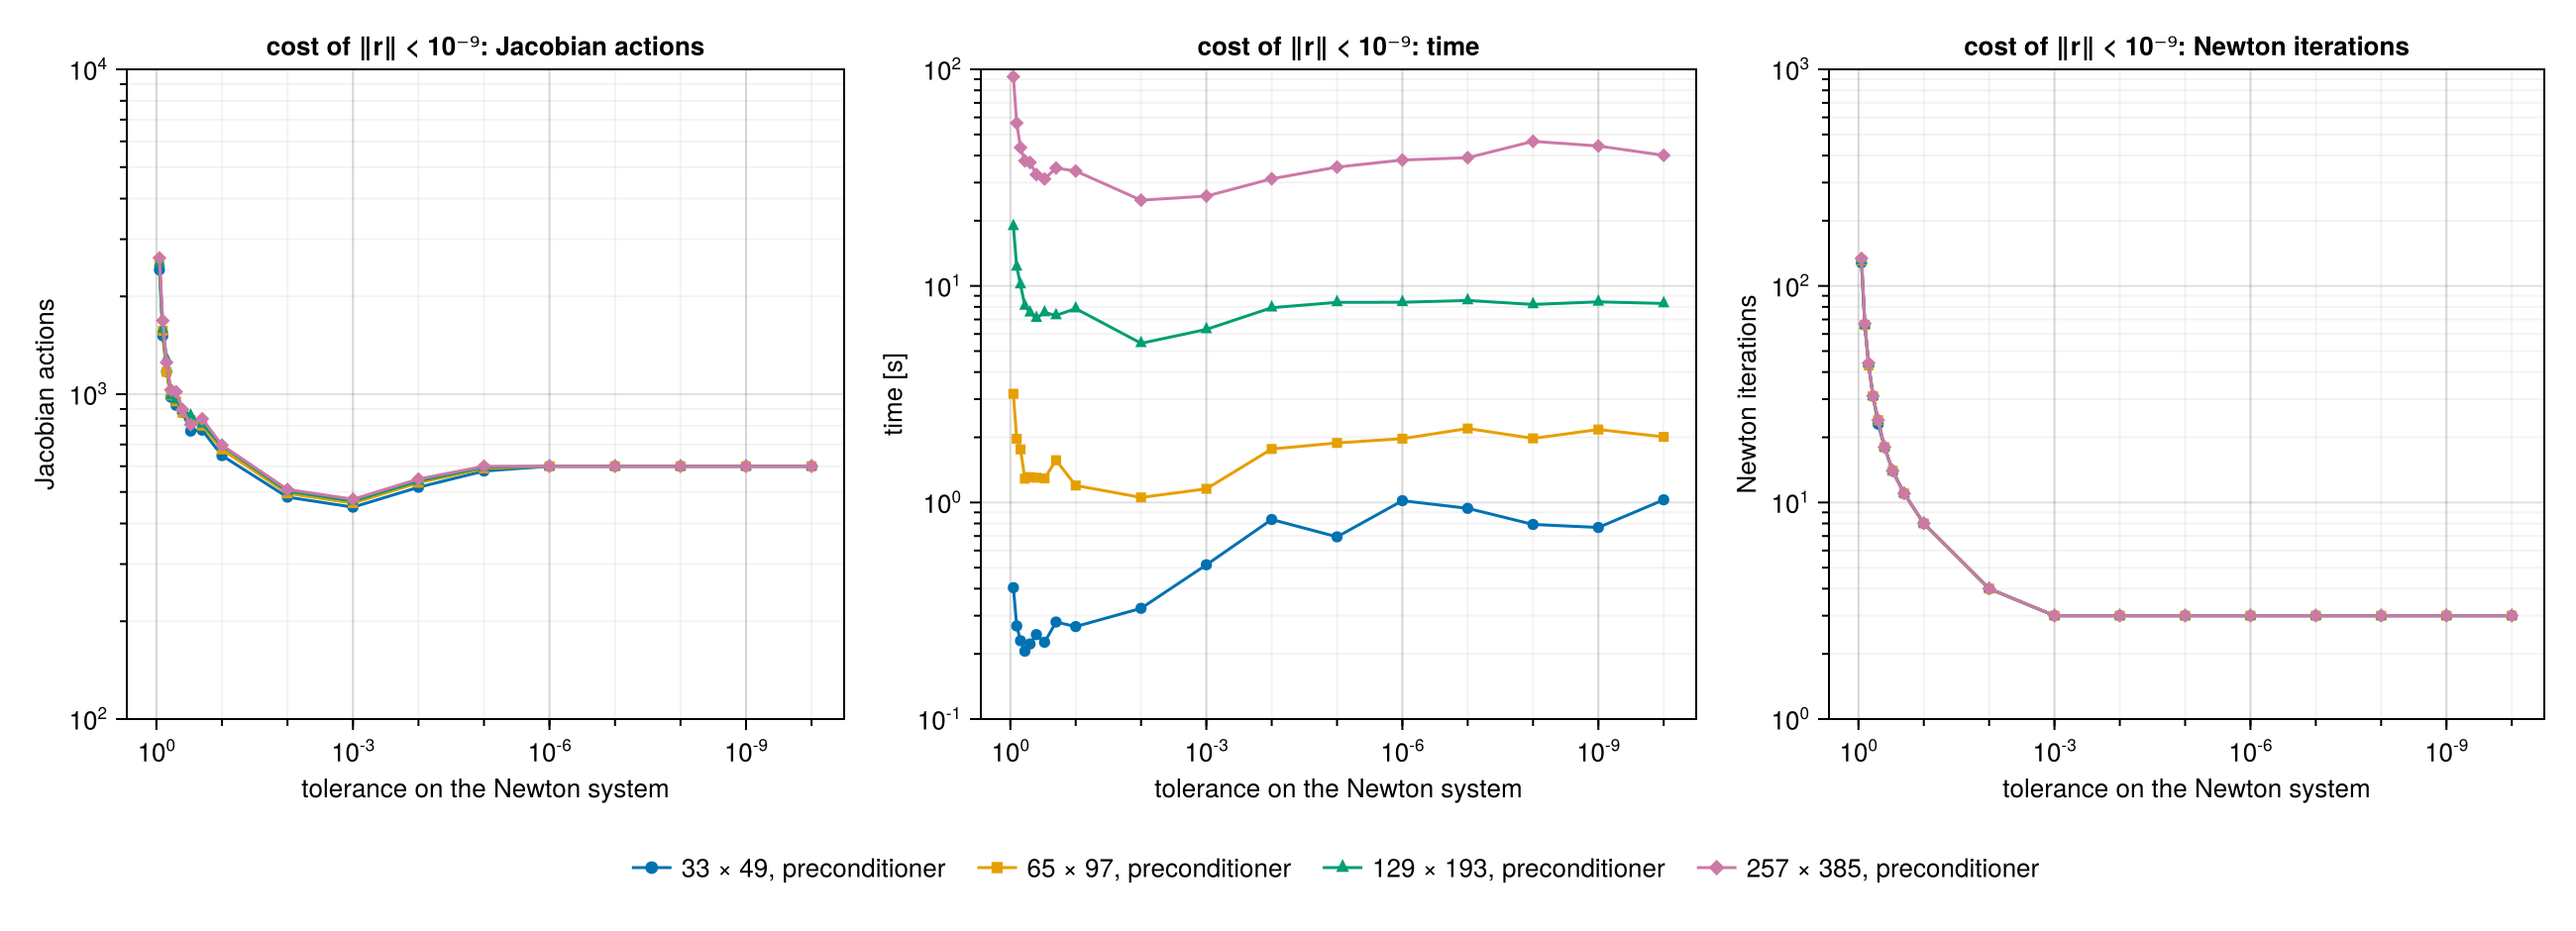
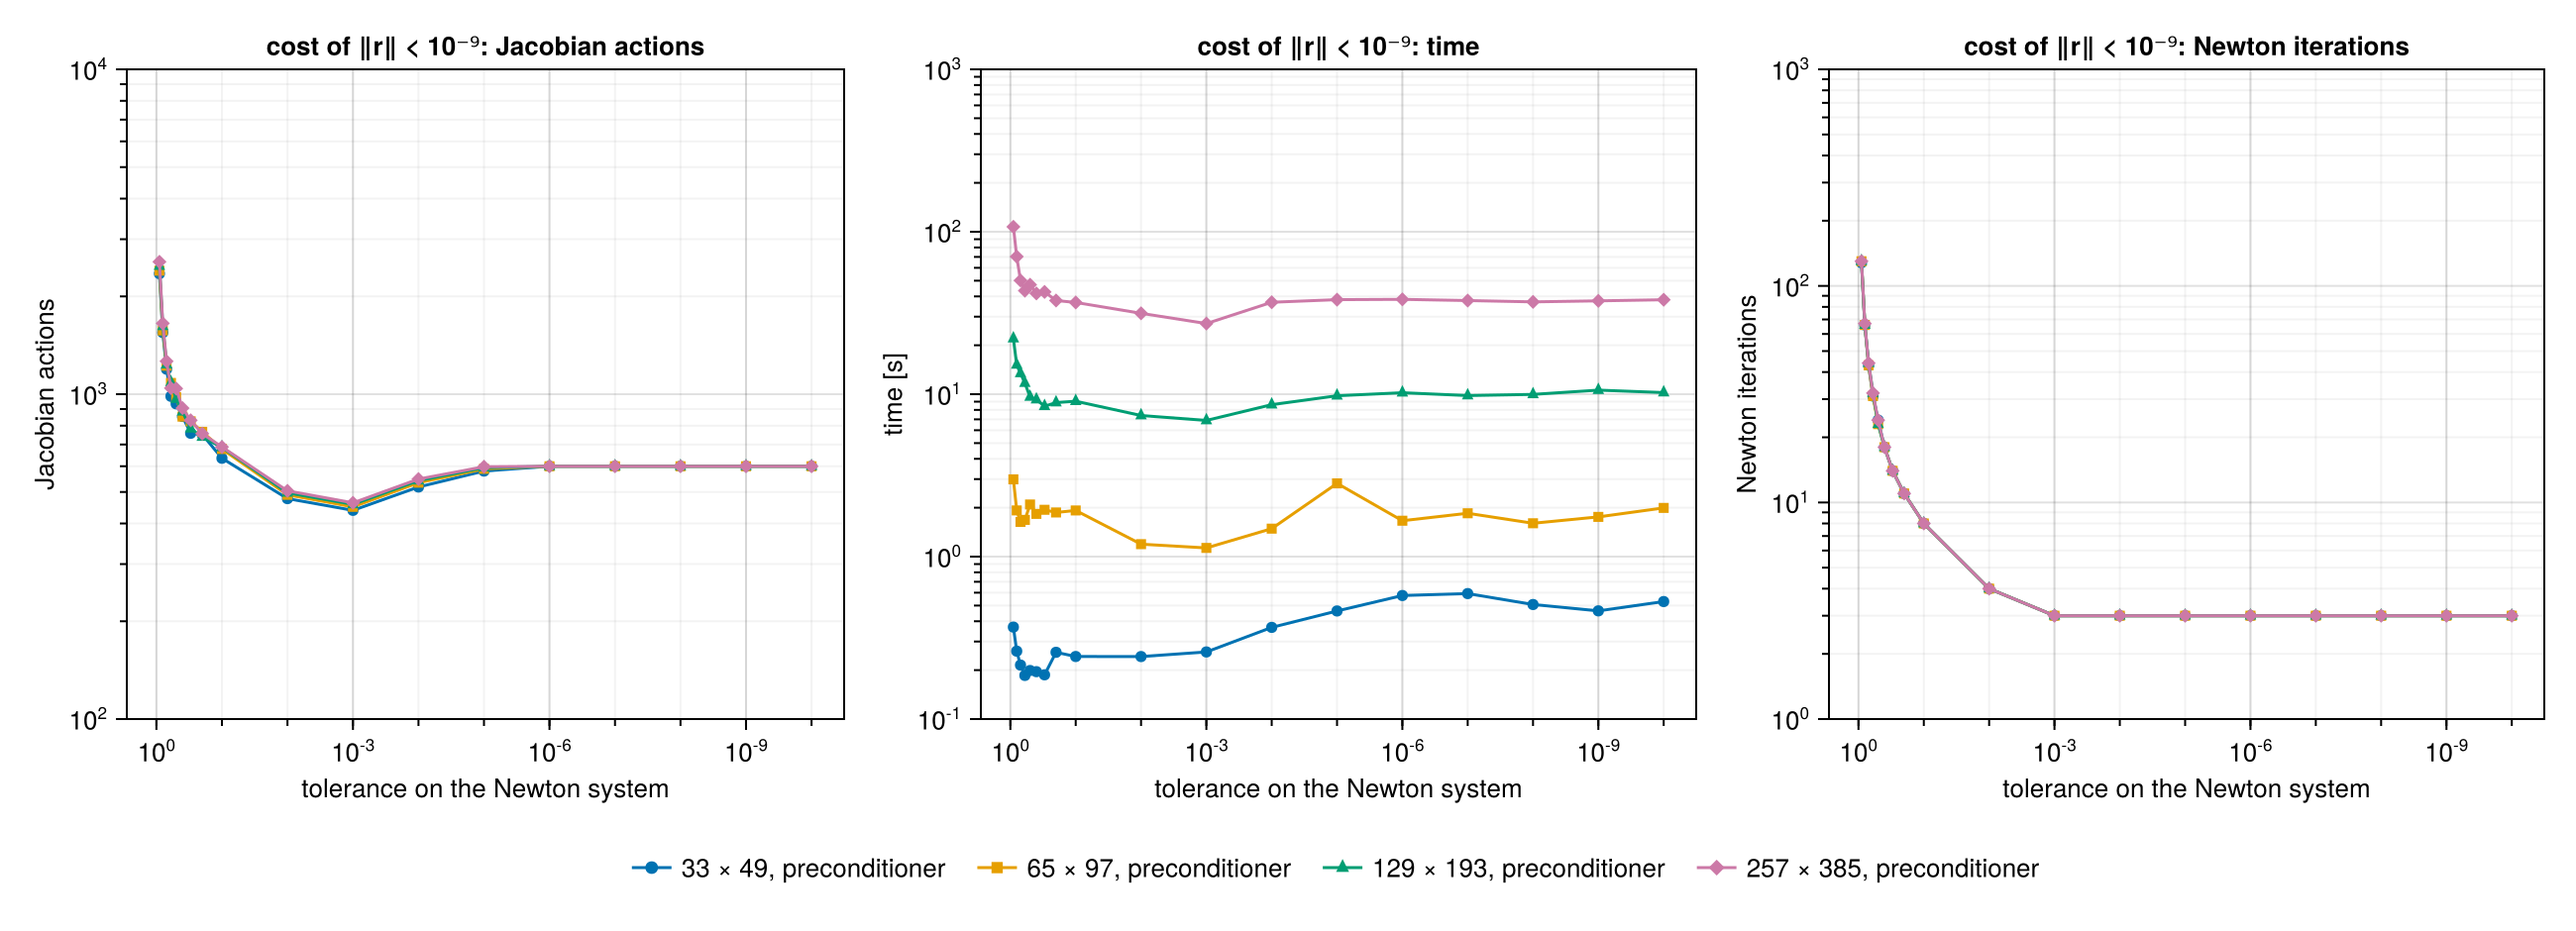
Rerun the convergence study of Kuramoto–Sivashinsky with the mean removed by a projection
The convergence and tolerance tables and figures now agree with the
preconditioners table, 439 to 463 Jacobian actions on the four grids.

diff --git a/docs/src/examples/kuramoto_sivashinsky.md b/docs/src/examples/kuramoto_sivashinsky.md
@@ -165,36 +165,36 @@ iterations. Solid lines, linear preconditioner. Dashed lines, none.*
 
 | grid | unknowns | $\lVert r\rVert$, no preconditioner | Jacobian actions | $\lVert r\rVert$, linear preconditioner | Newton iterations | Jacobian actions | time |
 |---|---|---|---|---|---|---|---|
-| base | 1 619 | $5.5 \times 10^{-3}$ | 2400 | $1.6 \times 10^{-10}$ | 3 | 449 | 0.3 s |
-| $\times 2$ | 6 307 | $6.6 \times 10^{-3}$ | 2400 | $1.5 \times 10^{-10}$ | 3 | 462 | 1.5 s |
-| $\times 4$ | 24 899 | $1.2 \times 10^{-2}$ | 2400 | $1.6 \times 10^{-10}$ | 3 | 469 | 6.0 s |
-| $\times 8$ | 98 947 | $1.4 \times 10^{-2}$ | 2400 | $3.0 \times 10^{-10}$ | 3 | 475 | 26.8 s |
+| base | 1 619 | $5.4 \times 10^{-3}$ | 2400 | $3.4 \times 10^{-10}$ | 3 | 439 | 0.3 s |
+| $\times 2$ | 6 307 | $6.6 \times 10^{-3}$ | 2400 | $3.5 \times 10^{-10}$ | 3 | 450 | 1.4 s |
+| $\times 4$ | 24 899 | $1.2 \times 10^{-2}$ | 2400 | $3.3 \times 10^{-10}$ | 3 | 458 | 6.6 s |
+| $\times 8$ | 98 947 | $1.5 \times 10^{-2}$ | 2400 | $4.2 \times 10^{-10}$ | 3 | 463 | 29.1 s |
 
 *Final residual and cost, from $\lVert r\rVert = 1.6 \times 10^{-2}$. Without preconditioner the
 search is stopped after 12 Newton iterations.*
 
 With the preconditioner, Newton converges in 3 iterations on every grid. The cost in Jacobian
-actions grows by 6% over a 61-fold increase of the number of unknowns, so the method is
+actions grows by 5% over a 61-fold increase of the number of unknowns, so the method is
 mesh-independent. The computing time grows by factors between 4 and 5 between successive grids.
 This is close to the factor of four by which the number of unknowns grows, times the logarithm of
 the FFTs, so the work per unknown is nearly constant. The residual drops from $1.6 \times 10^{-2}$
-to $1.2 \times 10^{-4}$, $1.5 \times 10^{-7}$ and $2 \times 10^{-10}$. After the first step the
-convergence is linear with ratio $10^{-3}$, the tolerance of the inner solve, rather than
-quadratic. This is the behaviour of an inexact Newton method whose forcing term is constant
+to $1.0 \times 10^{-4}$, $3.5 \times 10^{-7}$ and $3 \times 10^{-10}$ to $4 \times 10^{-10}$.
+After the first step the convergence is linear with a ratio close to $10^{-3}$, the tolerance of the
+inner solve, rather than quadratic. This is the behaviour of an inexact Newton method whose forcing term is constant
 (Dembo, Eisenstat & Steihaug 1982). Each step reduces the residual of the linear model by $\tau$,
 and once the error of the linearisation, quadratic in the step, falls below that, $\tau$ sets the
 rate.
 
-Each inner solve takes 145 to 170 Arnoldi steps, and the curves of the four grids nearly coincide.
-They descend in stages, with plateaus, for instance at a relative residual of about $0.4$ during the
-first 70 steps of the third iteration. GMRES first resolves the eigenvalues of
+Each inner solve takes 141 to 168 Arnoldi steps, and the curves of the four grids nearly coincide.
+They descend in stages, with plateaus. In the second iteration, for instance, the relative residual
+stays above $0.3$ for the first 75 steps. GMRES first resolves the eigenvalues of
 $\mathcal{J}\mathcal{B}^{-1}$ that lie far from one, on the arcs towards $\pm\mathrm{i}$ described
 in [Preconditioners](#Preconditioners), and only then converges at the rate set by the cluster.
 These eigenvalues belong to the large scales, which are the same on every grid, hence the
 independence of the resolution.
 
 Without preconditioner, every inner solve exhausts the Krylov space of 200 vectors. In the first
-Newton iteration the relative residual of the Newton system stagnates between $0.45$ and $0.9$,
+Newton iteration the relative residual of the Newton system stagnates between $0.4$ and $0.95$,
 and in the following ones it stays close to one. The steps are almost useless. After 12 iterations
 and 2400 Jacobian actions the residual has dropped by a factor of three on the base grid, and
 hardly at all on the finest. For the Lorenz system the unpreconditioned solve succeeds as long as
@@ -213,14 +213,14 @@ the base grid.*
 | $\tau$ | Newton iterations | Jacobian actions, base | $\times 8$ | mean contraction of $\lVert r\rVert$ per iteration |
 |---|---|---|---|---|
 | 0.95 | not converged | — | — | — |
-| 0.9 | 128–134 | 2415 | 2627 | 0.88 |
-| 0.8 | 66–67 | 1513 | 1684 | 0.78 |
-| 0.5 | 23–24 | 924 | 1017 | 0.49 |
-| 0.3 | 14 | 770 | 806 | 0.31 |
-| 0.1 | 8 | 647 | 697 | 0.13 |
-| $10^{-2}$ | 4 | 482 | 509 | |
-| $10^{-3}$ | 3 | 449 | 475 | |
-| $10^{-4}$ | 3 | 517 | 548 | |
+| 0.9 | 128–130 | 2350 | 2556 | 0.88 |
+| 0.8 | 66–67 | 1548 | 1652 | 0.78 |
+| 0.5 | 23–24 | 934 | 1041 | 0.50 |
+| 0.3 | 14 | 758 | 831 | 0.31 |
+| 0.1 | 8 | 635 | 688 | 0.13 |
+| $10^{-2}$ | 4 | 477 | 504 | |
+| $10^{-3}$ | 3 | 439 | 463 | |
+| $10^{-4}$ | 3 | 518 | 548 | |
 | $\le 10^{-6}$ | 3 | 600 | 600 | |
 
 *Cost of $\lVert r\rVert < 10^{-9}$ from $\lVert r\rVert = 1.6 \times 10^{-2}$, linear
@@ -229,30 +229,31 @@ $(10^{-9} / 1.6 \times 10^{-2})^{1/n}$ over the $n$ iterations on the base grid.
 
 The number of Newton iterations depends on the tolerance and not at all on the grid. For loose
 tolerances it follows the theory of inexact Newton methods closely. The residual contracts by a
-factor equal to $\tau$ at every iteration, 0.88 for $\tau = 0.9$, 0.49 for $\tau = 0.5$ and 0.31
+factor equal to $\tau$ at every iteration, 0.88 for $\tau = 0.9$, 0.50 for $\tau = 0.5$ and 0.31
 for $\tau = 0.3$. The hookstep takes the full inexact Newton step, whose linear model reduces the
 residual by exactly $\tau$, and the linearisation error is negligible at these small residuals. For
 $\tau = 0.95$ the contraction is too weak to reach $10^{-9}$ within 200 iterations.
 
-The cost in Jacobian actions has a minimum at $\tau = 10^{-3}$ on every grid, 449 to 475 actions,
-and is flat around it. The tolerance $10^{-2}$ costs 7% more and $10^{-4}$ costs 15% more.
+The cost in Jacobian actions has a minimum at $\tau = 10^{-3}$ on every grid, 439 to 463 actions,
+and is flat around it. The tolerance $10^{-2}$ costs 9% more and $10^{-4}$ costs 18% more.
 Tightening the tolerance beyond $10^{-5}$ changes nothing. Each inner solve then fills the whole
 Krylov space of 200 vectors, and the cost saturates at $3 \times 200 = 600$ actions. These searches
 still converge, because 200 Arnoldi steps reduce the residual of the Newton system well below what
-Newton needs to converge in 3 iterations. Loosening the tolerance is costlier, up to five times the
+Newton needs to converge in 3 iterations. Loosening the tolerance is costlier, up to 5.5 times the
 minimum at $\tau = 0.9$. The minimum lies at a tighter tolerance than for the Lorenz system, where
 it was $10^{-4}$ with the jacobian preconditioner, but the reason is the same. With Newton
 converging in 3 or 4 iterations, a tighter inner solve buys nothing, and a looser one multiplies
 the iterations.
 
 The computing time behaves differently on the smallest grids. On the base grid the fastest searches
-use loose tolerances, $\tau$ between 0.3 and 0.7, at about 0.22 s against 0.52 s at $10^{-3}$.
+use loose tolerances, $\tau$ between 0.3 and 0.7, at about 0.20 s against 0.26 s at $10^{-3}$,
+although they need up to 2.7 times more actions.
 With 1 619 unknowns a Jacobian action is cheap. The time is dominated by the orthogonalisation of
 the Arnoldi vectors, whose cost grows with the square of the dimension of the Krylov space, and by
 the dense linear algebra of the hookstep. Many short Krylov spaces are then cheaper than a few long
 ones. As the grid is refined, the Jacobian actions become dominant and the minimum of the time moves
-to the minimum of the actions. On the finest grid the fastest searches use $\tau = 10^{-2}$ and
-$10^{-3}$, at 25 and 26 s, against 92 s at $\tau = 0.9$. For large problems, where the Jacobian
+to the minimum of the actions. On the finest grid the fastest searches use $\tau = 10^{-3}$ and
+$10^{-2}$, at 27 and 31 s, against 107 s at $\tau = 0.9$. For large problems, where the Jacobian
 action is the expensive operation, the count of actions is the relevant measure, and a tolerance
 between $10^{-2}$ and $10^{-4}$ is a safe choice.
 
